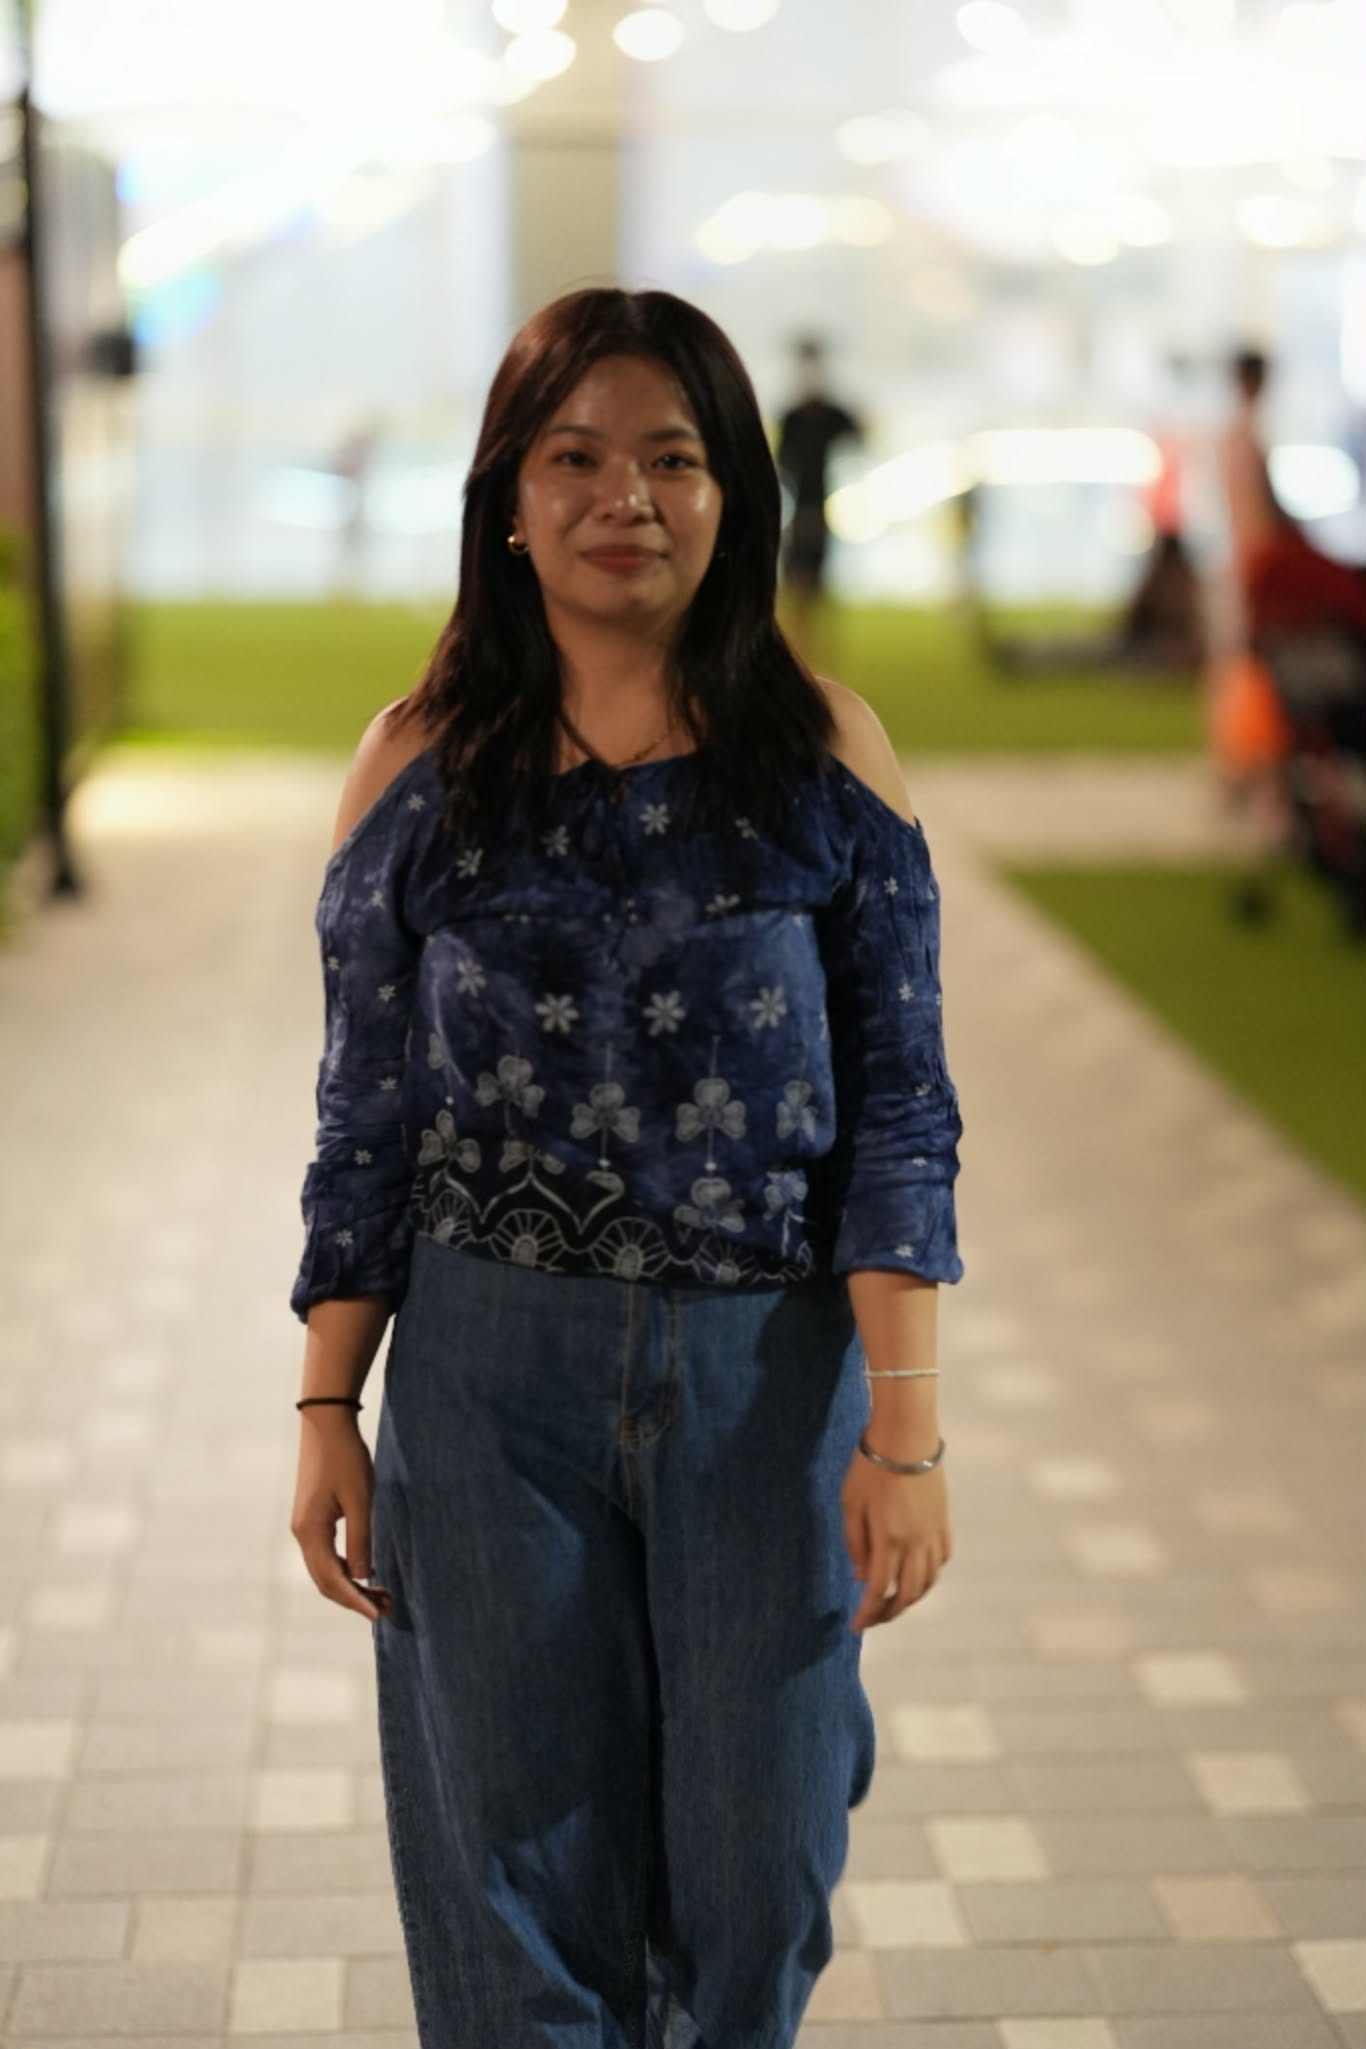
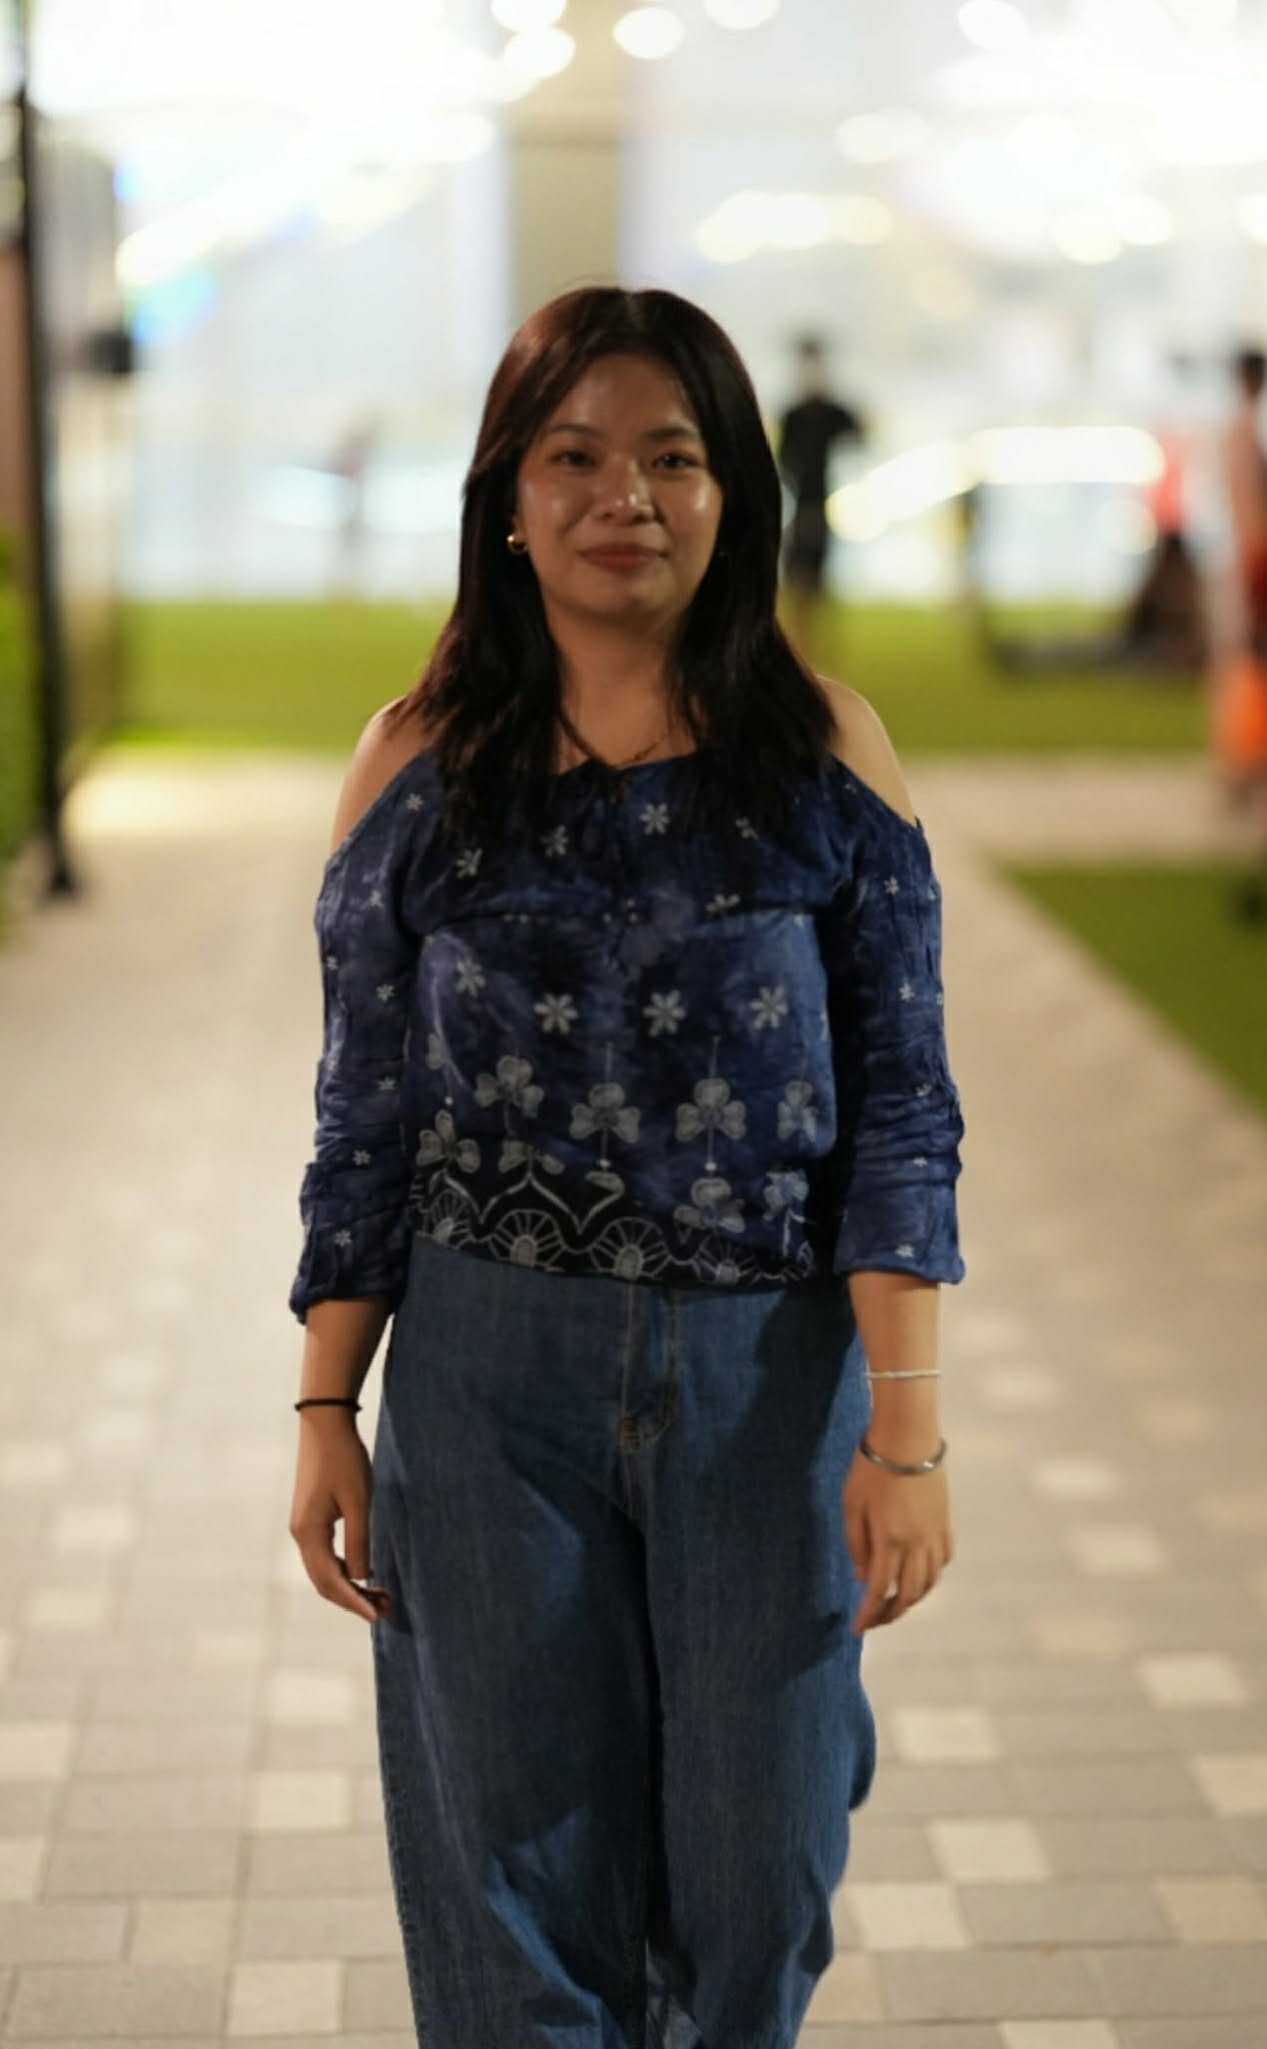
update the other pages and add pictures

diff --git a/introduction/css/rwd.css b/introduction/css/rwd.css
@@ -91,7 +91,7 @@ body {
     justify-content: space-between;
     align-items: center;
     width: 90%;
-    max-width: 1200px;
+    max-width: 1600px;
     margin: 0 auto;
     padding-left: 100px;
 }
@@ -102,7 +102,7 @@ body {
 }
 
 .top-label {
-    font-size: 14px;
+    font-size: 16px;
     color: var(--text-secondary);
     margin-bottom: 10px;
     letter-spacing: 1px;
@@ -110,10 +110,34 @@ body {
 }
 
 h1 {
-    font-size: 60px;
+    font-size: 72px;
     line-height: 1.1;
     margin-bottom: 10px; /* Reduced space slightly */
     font-weight: 800;
+}
+
+/* Larger screens */
+@media (min-width: 1600px) {
+    h1 {
+        font-size: 96px;
+    }
+    
+    .subtitle {
+        font-size: 32px;
+    }
+    
+    .bio-text {
+        font-size: 22px;
+        max-width: 800px;
+    }
+    
+    .image-content img {
+        max-width: 650px;
+    }
+    
+    .top-label {
+        font-size: 18px;
+    }
 }
 
 .highlight-purple {
@@ -122,7 +146,7 @@ h1 {
 
 /* Subtitle Style */
 .subtitle {
-    font-size: 24px;
+    font-size: 28px;
     font-weight: normal;
     color: var(--text-color);
     margin-bottom: 25px; /* Space before the paragraph */
@@ -130,10 +154,10 @@ h1 {
 
 /* Paragraph Style */
 .bio-text {
-    font-size: 18px;
+    font-size: 20px;
     line-height: 1.6;
     color: var(--text-secondary);
-    max-width: 550px; /* Prevents text from being too wide */
+    max-width: 600px; /* Prevents text from being too wide */
 }
 
 /* --- RIGHT SIDE (IMAGE) --- */
@@ -145,7 +169,7 @@ h1 {
 
 .image-content img {
     width: 100%;
-    max-width: 450px;
+    max-width: 520px;
     height: auto;
     border-radius: 15px;
     object-fit: cover;
@@ -185,7 +209,29 @@ h1 {
 
 .summary-container {
     width: 90%;
-    max-width: 1200px;
+    max-width: 1600px;
+}
+
+@media (min-width: 1600px) {
+    .section-header h2 {
+        font-size: 56px;
+    }
+    
+    .card-image {
+        height: 450px;
+    }
+    
+    .card h3 {
+        font-size: 24px;
+    }
+    
+    .card {
+        padding: 30px;
+    }
+    
+    .section-subtitle {
+        font-size: 18px;
+    }
 }
 
 /* Headers */
@@ -194,11 +240,11 @@ h1 {
     font-weight: bold;
     text-transform: uppercase;
     margin-bottom: 10px;
-    font-size: 14px;
+    font-size: 16px;
 }
 
 .section-header h2 {
-    font-size: 40px;
+    font-size: 48px;
     color: var(--text-color);
     margin-bottom: 50px; /* Space between title and cards */
 }
@@ -207,7 +253,7 @@ h1 {
 .cards-grid {
     display: grid;
     grid-template-columns: 1fr 1fr; /* Two equal columns */
-    gap: 30px; /* Space between the cards */
+    gap: 40px; /* Space between the cards */
 }
 
 /* Card Link Wrapper */
@@ -221,7 +267,7 @@ h1 {
 .card {
     background-color: var(--card-bg);
     border-radius: 10px;
-    padding: 20px;
+    padding: 25px;
     text-align: center;
     border: 1px solid var(--border-color);
     box-shadow: var(--shadow);
@@ -237,7 +283,7 @@ h1 {
 /* Placeholder Image Box */
 .card-image {
     background-color: var(--section-bg);
-    height: 300px;
+    height: 350px;
     border-radius: 8px;
     margin-bottom: 20px;
     display: flex;
@@ -281,7 +327,7 @@ h1 {
 }
 
 .card h3 {
-    font-size: 18px;
+    font-size: 20px;
     font-weight: normal;
     color: var(--text-color);
 }
@@ -404,15 +450,37 @@ h1 {
 .page-container {
     min-height: 100vh;
     padding: 100px 5% 50px 5%;
-    max-width: 1200px;
+    max-width: 1400px;
     margin: 0 auto;
+}
+
+@media (min-width: 1600px) {
+    .page-container {
+        max-width: 1600px;
+    }
+    
+    .content-section h1 {
+        font-size: 72px;
+    }
+    
+    .content-box h2 {
+        font-size: 38px;
+    }
+    
+    .content-box p {
+        font-size: 22px;
+    }
+    
+    .back-button {
+        font-size: 20px;
+    }
 }
 
 .back-button {
     display: inline-block;
     color: var(--accent-color);
     text-decoration: none;
-    font-size: 16px;
+    font-size: 18px;
     margin-bottom: 30px;
     transition: transform 0.3s ease;
 }
@@ -422,7 +490,7 @@ h1 {
 }
 
 .content-section h1 {
-    font-size: 48px;
+    font-size: 56px;
     color: var(--text-color);
     margin-bottom: 40px;
     text-align: center;
@@ -432,20 +500,20 @@ h1 {
     background-color: var(--card-bg);
     border: 1px solid var(--border-color);
     border-radius: 10px;
-    padding: 30px;
+    padding: 40px;
     margin-bottom: 30px;
     box-shadow: var(--shadow);
 }
 
 .content-box h2 {
     color: var(--accent-color);
-    font-size: 28px;
+    font-size: 32px;
     margin-bottom: 15px;
 }
 
 .content-box p {
     color: var(--text-secondary);
-    font-size: 16px;
+    font-size: 20px;
     line-height: 1.6;
 }
 
@@ -472,14 +540,24 @@ h1 {
 
 .gallery-item img {
     width: 100%;
-    height: 250px;
+    height: 400px;
     object-fit: cover;
     border-radius: 8px;
     margin-bottom: 10px;
 }
 
+@media (min-width: 1600px) {
+    .gallery-item img {
+        height: 500px;
+    }
+    
+    .gallery-item p {
+        font-size: 18px;
+    }
+}
+
 .gallery-item p {
     color: var(--text-color);
-    font-size: 14px;
+    font-size: 16px;
     text-align: center;
 }

diff --git a/introduction/gallery.html b/introduction/gallery.html
@@ -21,18 +21,18 @@
             
             <div class="gallery-grid">
                 <div class="gallery-item">
-                    <img src="images/placeholder.jpg" alt="Gallery Image 1">
-                    <p>Image Caption 1</p>
+                    <img src="images/18th-birthday-photoshoot.jpg" alt="Gallery Image 1">
+                    <p>18th Birthday Photoshoot</p>
                 </div>
 
                 <div class="gallery-item">
-                    <img src="images/placeholder.jpg" alt="Gallery Image 2">
-                    <p>Image Caption 2</p>
+                    <img src="images/picture-taken-by-goodcamera.jpg" alt="Gallery Image 2">
+                    <p>This Photo was taken by Taiwanese Photographer</p>
                 </div>
 
                 <div class="gallery-item">
-                    <img src="images/placeholder.jpg" alt="Gallery Image 3">
-                    <p>Image Caption 3</p>
+                    <img src="images/jpcs-photoshoot.jpg" alt="Gallery Image 3">
+                    <p>JPCS Photoshoot</p>
                 </div>
 
                 <div class="gallery-item">

diff --git a/introduction/hobbies.html b/introduction/hobbies.html
@@ -21,12 +21,21 @@
             
             <div class="content-box">
                 <h2>Hobbies</h2>
+                <h3>In Tech</h3>
                 <p>- Attending Tech Events</p>
+                <p>- Exploring Tech Fields & Innovations</p>
+                <br>
+                <h3>Other Hobbies</h3>
+                <p>- Music</p>
+                <p>- Photography</p>
+                <p>- Traveling</p>
+                
             </div>
 
             <div class="content-box">
                 <h2>Interests</h2>
                 <p>- Exploring New Technologies</p>
+                <p>- Many Side Quests</p>
             </div>
         </div>
     </div>

diff --git a/introduction/goals.html b/introduction/goals.html
@@ -22,11 +22,14 @@
             <div class="content-box">
                 <h2>Career Goals</h2>
                 <p>- To be a successful Cloud Engineer</p>
+                <p>- To be a Tech Entrepreneur</p>
+                <p>- To continuously learn and grow in the tech industry</p>
             </div>
 
             <div class="content-box">
                 <h2>Personal Dreams</h2>
                 <p>- To travel the world and experience different cultures</p>
+                <p>- Buy anything I desire</p>
             </div>
         </div>
     </div>
